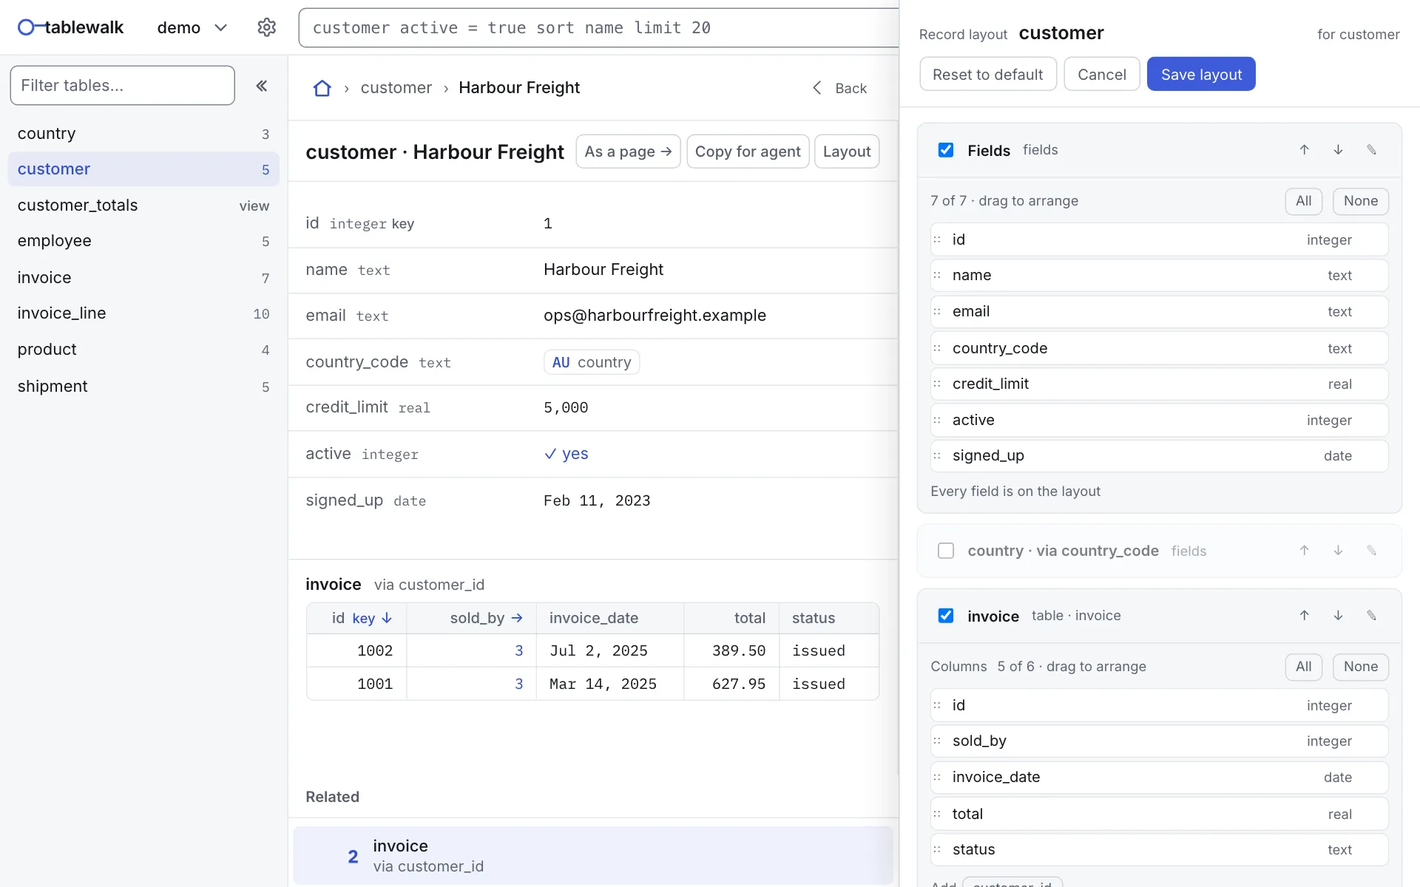
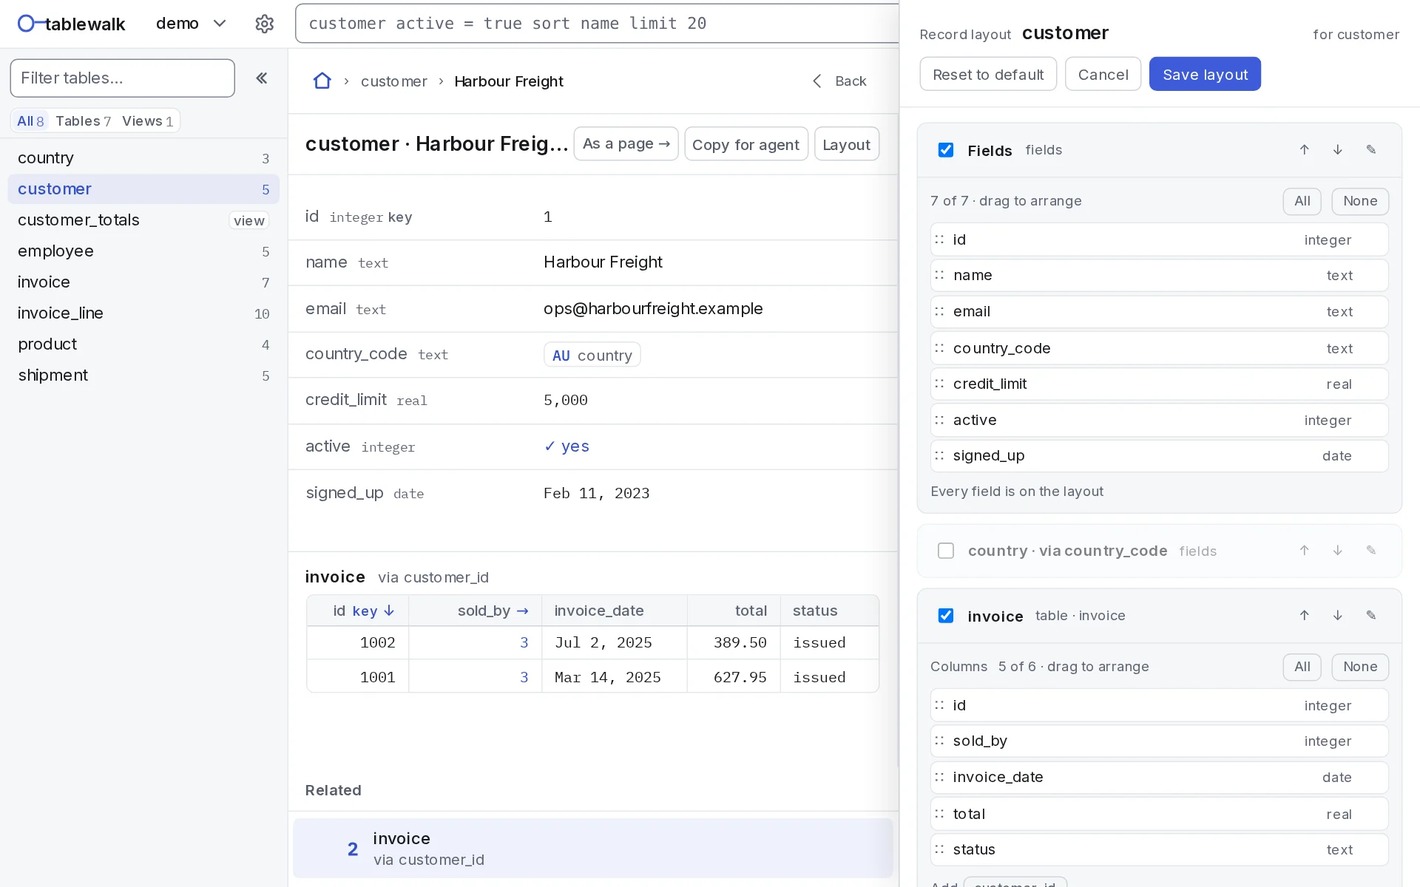
Site & docs: refresh screenshots and docs for 1.0.0-rc.21 Workbench & multi-env

diff --git a/README.md b/README.md
@@ -172,11 +172,16 @@ statement preview and undo as the record view. Pin a page with the star beside
 its name and the home screen offers it — along with the records you were last
 looking at, and every page there is.
 
-**Check the shape** (⌘K, or the `···` menu) runs the same `lint` an agent and
-a build get, for the person who can actually add the index: keyless tables,
-foreign keys with nothing behind them, references with no delete rule,
-timestamps with no zone — grouped by table, each cost said once, and every
-heading opens the table it is about.
+**Check the shape** (⌘K, the `···` menu, or **Check shape & perf** / **Join paths**
+on the home page) opens a four-tab diagnostics cockpit over the active
+connection: static **Schema & perf** (`lint` — keyless tables, unindexed
+foreign keys, missing `ON DELETE` rules, naive timestamps), live **Index & scan
+health** (`perf` — sequential-scan hotspots, unused or duplicate indexes, table
+bloat and stale planner stats), bounded **Data anomalies** (`anomalies` —
+temporal inversions, dangling soft-delete lifecycles, almost-always-populated
+nullable FKs), and **Join paths** (`path` — shortest `to-one` and `to-many`
+routes between any two tables), each with ready-to-run `CREATE INDEX` or
+`SELECT … JOIN …` statements you can copy or **Open in SQL**.
 
 **Find a value** (⌘K, or the `···` menu) answers the question you have when a
 string arrives from somewhere else and you cannot yet name the table it
@@ -280,7 +285,7 @@ real row out of development, put it into a test database, tear it down after.
 Rows entering an agent's context leave the machine — point it at development
 databases. Where you want that enforced rather than remembered, mark a
 connection `"rows": false`: the catalog, row counts, null fractions, plans,
-`lint` and `anomalies` still answer, and everything that would return a value out of a row
+`lint`, `perf` and `anomalies` still answer, and everything that would return a value out of a row
 refuses — at the adapter, so every endpoint and every tool at once. A server
 whose connections are all shape-only does not list `query`, `sql`, `record`,
 `breakdown` or `export` at all.
@@ -295,23 +300,30 @@ a query or configured view that names or traverses one is refused, and raw SQL
 (`sql`, `explain`, `verify_ddl`) is withheld and refused on that connection.
 Where PII or secrets should stay visible in shape and deterministically masked in
 values, set `"redact": true` (and optional `"redactColumns": ["notes"]`, or pass
-`--redact` / `TABLEWALK_REDACT=1`), and bound total session egress with
-`"maxRows": 5000` (or `--max-rows 5000` / `TABLEWALK_MAX_ROWS=5000`). A
-database role without `SELECT` on sensitive tables is stronger still.
+`--redact` / `TABLEWALK_REDACT=1`), bound total session egress with
+`"maxRows": 5000` (or `--max-rows 5000` / `TABLEWALK_MAX_ROWS=5000`), and scope
+large schemas to an N-hop foreign-key neighborhood with `"focus": ["invoice"]`
+(`--focus invoice --focus-hops 1`). A database role without `SELECT` on
+sensitive tables is stronger still.
 
 For a local secret vault or ephemeral agent session, pipe the config in memory
 instead of writing secrets to disk — `--config <(vault read db/staging)`,
 `{ vault read db/staging; cat; } | npx tablewalk --mcp --config -`, or
-`TABLEWALK_CONFIG_JSON` — with inline `"secrets"` / `"dotenv"` variables
-resolved only inside `Registry.environment`, `"active": "billing@staging"` and
-`"only": true` to expose one target, `--lazy` so MCP handshake answers before
-the database is dialed, `"lease": { "idleSeconds": 30, "maxSeconds": 300 }` (or
-`--lease 5m`) to evict idle sockets and close connections when the lease ends,
-`--query "invoice status = open"` / `--call schema_summary` for a single fast
-JSON lookup, or `--batch calls.jsonl` (including `{ vault read db/staging; cat calls.jsonl; } | npx tablewalk --config - --batch -`) to stream multiple queries and tool calls as NDJSON over one session before closing all connections.
+`TABLEWALK_CONFIG_JSON` — with inline `"secrets"` / `"dotenv"` variables or
+`"credentialCommand"` resolved only inside `Registry.environment`,
+`"active": "billing@staging"` and `"only": true` to expose one target, `--lazy`
+so MCP handshake answers before the database is dialed,
+`"lease": { "idleSeconds": 30, "maxSeconds": 300 }` (or `--lease 5m`) to evict
+idle sockets and close connections when the lease ends, `--audit-log stderr` for
+zero-PII JSONL tool receipts, `--query "invoice status = open" --format tsv` /
+`--call breakdown --args '{"q":"invoice count by status"}' --all-envs --format md`
+for compact one-shot lookups, or `--batch calls.jsonl` (including
+`{ vault read db/staging; cat calls.jsonl; } | npx tablewalk --config - --batch -`)
+to stream multiple queries and tool calls as NDJSON over one session before closing all connections.
 
 A call is bounded in time and in what it counts. Statements run under a
-30-second cap, and `sql` takes `timeout_ms` to lower it for one statement:
+30-second cap (or `"timeoutMs"` / `--timeout-ms` per connection or environment),
+and `sql` takes `timeout_ms` to lower it for one statement:
 Postgres sets it inside the statement's transaction, and SQLite, which cannot interrupt a statement
 in-process, runs `sql` in a separate process that the cap stops — the reads
 tablewalk compiles for SQLite are bounded by their limits instead. A client
@@ -337,9 +349,11 @@ beside the schema brief. Reading them does not run them; `query`, `sql` and
 the current record, query or schema with its deep link and exact MCP call.
 
 And you can watch all of it: the **Agent console** (⌘K → "Agent console")
-drives the same tools by hand through the same code path and streams a live
-trail of external MCP calls hitting the shared server — stats, token cost, Undo
-sync, and one-click deep links back into the UI.
+organizes all twenty-eight tools into five searchable workflow sections, offers an
+**All envs** fan-out pill for read-only calls, drives the same tools by hand
+through the same code path, and streams a live trail of external MCP calls
+hitting the shared server — stats, token cost, Undo sync, and one-click deep
+links back into the UI.
 
 ## A config file, and a team's surfaces
 
@@ -367,11 +381,13 @@ on should live in version control rather than in one person's browser.
 Connections that share a logical `database` (either declared explicitly with
 `"database"` and `"env"`, or inferred from names like `app-local`, `app_staging`,
 `app (prod)`, or `app-replica`) appear as one promotion pipeline across the top
-bar, the SQL editor, and the Connections screen — switching environments keeps
-your current table, query, or record open when that table exists on the other
-side, while top-level `"environments"` policies apply shared `writable`, `rows`,
-`lease`, `blocklist`, `redact` and `maxRows` defaults across every database in
-that tier. In MCP, every tool accepts `"connection": "app@staging"`, `"@staging"`, or
+bar, the drag-resizable SQL editor (including **Compare envs** parallel `SELECT`
+tabs), the Agent console (**All envs** fan-out), and the Connections screen —
+switching environments keeps your current table, query, or record open when that
+table exists on the other side, while top-level `"environments"` policies apply
+shared `writable`, `rows`, `lease`, `blocklist`, `redact`, `maxRows`,
+`timeoutMs` and `focus` defaults across every database in that tier. In MCP,
+every tool accepts `"connection": "app@staging"`, `"@staging"`, or
 `"env": "staging"`, and implicit writes while a `prod` environment is active are
 refused unless `"connection"` or `"env": "prod"` is named explicitly.
 

diff --git a/site/src/content/docs/docs/browsing.md b/site/src/content/docs/docs/browsing.md
@@ -5,16 +5,16 @@ description: Tables, records and the walk between them. Every foreign key is a l
 
 In tablewalk a foreign key is a place you can go: from an invoice to its customer, and from the customer back to all of its invoices.
 
-![A customer record: its fields, its invoices listed under them, and a Related rail counting every table that points at it](/shots/record.webp?v=2)
+![A customer record: its fields, its invoices listed under them, and a Related rail counting every table that points at it](/shots/record.webp?v=3)
 
 ## A table
 
-Click a table in the sidebar, or type its name in the query bar. The grid shows its rows, newest first where an indexed column allows it.
+Click a table in the sidebar, or type its name in the query bar. The grid shows its rows, newest first where an indexed column allows it, and the sidebar scope bar above the table list filters between **All**, **Tables** and **Views** (plus **Focused** when `--focus` is active).
 
-![The invoice table queried as "invoice total >= 500 sort total desc", with the query's parts as chips and quick filters above the grid](/shots/query.webp?v=2)
+![The invoice table queried as "invoice total >= 500 sort total desc", with the query's parts as chips and inline quick filters above the grid](/shots/query.webp?v=3)
 
-- **Quick filters** above the grid narrow by a column's common values. The parts of the current query show as chips, and **+ Save this filter** keeps it as a view.
-- **A column header** opens a menu: pin the column, sort, or filter by equals, greater than, less than, between, is empty or is not empty.
+- **Quick filters** sit in one compact inline strip above the grid (`Filters` in the tab bar folds or unfolds them to give more vertical room to rows). The parts of the current query show as chips, and **+ Save this filter** keeps it as a view.
+- **A column header** opens a menu: pin the column, sort (tinted in cobalt when active), or filter by equals, greater than, less than, between, is empty or is not empty.
 - **▸** at the start of a row expands it in place. Click the row to open its record.
 - **Export** downloads CSV or JSON for this page or for every matching row, or lets you choose the columns first. **Agent: Copy this position** copies the place you are in for a coding agent.
 - The pager sets how many rows a page holds.
@@ -34,6 +34,19 @@ On a record:
 ## Walking back
 
 Each step is kept on a trail, shown above the record, and **Back** returns along it. `Backspace` (or `⌘[`) steps back one place. Opened from a list, a record steps through that list with `j` and `k`, or with the arrows beside its name, in the list's order and past the end of its page. In the grid, `Space` glances at a row's record without leaving the list. All the keys are on [Keyboard](/docs/keyboard/).
+
+## Checking the shape, live health and join paths
+
+**Check the shape** (`⌘K`, the `···` menu, or **Check shape & perf** / **Join paths** on the home page) opens a four-tab diagnostics dialog over the active connection:
+
+![Checking the shape of the sample database: schema findings with inline CREATE INDEX statements and Open in SQL](/shots/shapecheck.webp?v=3)
+
+- **Schema & perf** runs the static catalog `lint`: keyless tables, unindexed foreign keys, references without an `ON DELETE` rule, and timestamps without a zone — with ready-to-run `CREATE INDEX` statements you can copy or **Open in SQL**.
+- **Index & scan health** inspects live database statistics (`pg_stat_user_tables` and `pg_stat_user_indexes` on PostgreSQL; `PRAGMA index_list`, `EXPLAIN QUERY PLAN` and `sqlite_stat1` on SQLite) to flag sequential-scan hotspots, unused or duplicate indexes, table bloat and stale planner stats.
+- **Data anomalies** runs bounded count-only checks for inverted timestamps (`shipped_at < created_at`), dangling soft-delete lifecycles, and nullable foreign keys that are almost always populated except for outlier rows.
+- **Join paths** finds the shortest `to-one` and `to-many` routes between any two tables, marks whether each hop is indexed, and generates a `SELECT … JOIN …` statement you can copy or **Open in SQL**.
+
+**Find a value** (`⌘K` or the `···` menu) sweeps text columns — and UUID columns when the input is a UUID — across every readable table, grouped by table with links straight to matching records.
 
 ## Addresses
 

diff --git a/site/src/content/docs/docs/mcp.md b/site/src/content/docs/docs/mcp.md
@@ -30,25 +30,25 @@ Or name one database instead of a config file: `"args": ["tablewalk", "--mcp", "
 claude mcp add tablewalk -- npx tablewalk --mcp --db postgres://localhost/app
 ```
 
-Every answer carries a `link` the person beside the agent can open in the page, and says what it cost in rows and milliseconds. When tablewalk is running locally in the browser, external MCP clients can also connect directly over Streamable HTTP at `http://localhost:4111/mcp` (or bridge stdio via `TABLEWALK_MCP_URL=http://localhost:4111/mcp`) so the browser and the agent share one connection pool, Undo stack and live activity trail. To see what an agent receives — or watch external MCP calls live — open **Agent console** from the `···` menu or `⌘K`, or pick **Copy brief for agent** to put the current view, key and MCP call onto the clipboard.
+Every answer carries a `link` the person beside the agent can open in the page, and says what it cost in rows and milliseconds. When tablewalk is running locally in the browser, external MCP clients can also connect directly over Streamable HTTP at `http://localhost:4111/mcp` (or bridge stdio via `TABLEWALK_MCP_URL=http://localhost:4111/mcp`) so the browser and the agent share one connection pool, Undo stack and live activity trail. To see what an agent receives — or watch external MCP calls live — open **Agent console** from the `···` menu or `⌘K` (where all tools are searchable and grouped into five workflow sections, with an **All envs** target pill to fan out read-only calls across sibling environments), or pick **Copy brief for agent** to put the current view, key and MCP call onto the clipboard.
 
 ### Vault configs, leases and fast agent lookups
 
 When credentials live in a secret vault, pipe a JSON config straight into `tablewalk` so secrets stay in memory and connections close automatically when the agent finishes:
 
 ```sh
-# MCP session over a vault config with lazy startup, a 5-minute lease, and a table/field blocklist
-{ vault get db/billing-staging; cat; } | npx tablewalk --mcp --config - --env staging --lease 5m
+# MCP session over a vault config with lazy startup, a 5-minute lease, and zero-PII JSONL audit receipts
+{ vault get db/billing-staging; cat; } | npx tablewalk --mcp --config - --env staging --lease 5m --audit-log stderr
 
-# Process substitution, one-shot JSON lookup, or multi-call NDJSON batch (closes all connections on exit)
-npx tablewalk --config <(vault get db/billing) --env staging --query "invoice status = open limit 10"
-npx tablewalk --config <(vault get db/billing) --call schema_summary
+# Process substitution, compact TSV/Markdown one-shot lookups, cross-env fan-out, or multi-call NDJSON batch
+npx tablewalk --config <(vault get db/billing) --env staging --query "invoice status = open limit 10" --format tsv
+npx tablewalk --config <(vault get db/billing) --call breakdown --args '{"q":"invoice count by status"}' --all-envs --format md
 { vault get db/billing; cat calls.jsonl; } | npx tablewalk --config - --batch - --redact --max-rows 5000
 ```
 
 Piped JSON configs can include `"secrets"` (or `.env` text under `"dotenv"`), `"credentialCommand"` to mint short-lived tokens on open and after idle eviction, `"environments"` tier defaults (`"local"`, `"staging"`, `"prod"`), `"active": "billing@staging"`, `"only": true` to expose only the selected target, `"lazy": true` (default for piped `--mcp` configs so `initialize` and `tools/list` answer before dialing the database), `"lease": { "idleSeconds": 30, "maxSeconds": 300 }`, `"timeoutMs"`, `"focus"` / `"focusHops"`, `"redact": true` / `"redactColumns"`, `"maxRows"`, and `"blocklist": { "tables": ["audit_*"], "fields": { "*": ["*_token"], "customer": ["tax_id"] } }`.
 
-![The Agent console running the record tool on customer 1, with the answer and its cost](/shots/agent.webp?v=2)
+![The Agent console running the record tool on customer 1, with searchable categorized tools, the answer and its cost](/shots/agent.webp?v=3)
 
 ## The tools
 

diff --git a/site/src/content/docs/docs/getting-started.md b/site/src/content/docs/docs/getting-started.md
@@ -33,18 +33,19 @@ Add `--open` to have it open your browser, and `--port <n>` to listen somewhere 
 
 Run `npx tablewalk` alone and the page offers the sample database or a form to connect one. A connection added here is read-only. Only a [config file](/docs/connections/) can make one writable.
 
-![The welcome page: "Follow the data", with buttons to open the sample database or connect one](/shots/connect.webp?v=2)
+![The welcome page: "Follow the data", with buttons to open the sample database or connect one](/shots/connect.webp?v=3)
 
 ## The first page
 
-Once a database is open, the home page reads the schema for you: the tables it centers on, the ones that record events, the longest chain of references, and a table to start at. Under that is a diagram of every table and foreign key. The sidebar lists every table with its row count, and the query bar at the top takes [a question in one line](/docs/query/).
+Once a database is open, the home page reads the schema for you: the tables it centers on, the ones that record events, the longest chain of references, and starter tables to walk from, alongside one-click launchers for **Check shape & perf** and **Join paths**. Under that is an interactive entity diagram of every table and foreign key — hover any table card to illuminate its foreign-key neighborhood. The sidebar filters by **All**, **Tables** or **Views** with approximate row counts, and the query bar at the top takes [a question in one line](/docs/query/).
 
-![The home page of the sample database: what the schema centers on, the sidebar of tables, and the query bar](/shots/home.webp?v=2)
+![The home page of the sample database: what the schema centers on, the sidebar of tables, and the query bar](/shots/home.webp?v=3)
 
 From here:
 
 - Click a table to see its rows, then a row to see [the record and everything related to it](/docs/browsing/).
-- Press `⌘K` to jump to any table, page or recent query.
+- Click **Check shape & perf** or **Join paths** (or press `⌘K`) to inspect missing foreign-key indexes, live scan and index health, data anomalies, and shortest multi-hop joins.
+- Press `⌘K` to jump to any table, page, sibling environment or recent query.
 - Press `?` for the query language, with examples that run against your own tables.
 - Choose **Preferences** in the `···` menu for the look: Graphite and cobalt by default, with Fog and moss and other palettes, light or dark.
 - Choose **Take the tour** in the `···` menu for a short walk through the screen.

diff --git a/site/src/content/docs/docs/writing.md b/site/src/content/docs/docs/writing.md
@@ -18,7 +18,7 @@ tablewalk never writes to a database unless that connection's config says `"writ
 
 In write mode a record's fields become editors. Changes stay pending ("1 unsaved change") until you **Discard** them or choose **Review & apply**. The review names the record, the old and new values, and the exact SQL with its parameters:
 
-![The "Apply this change?" dialog: an UPDATE on customer 2 that sets a new email, guarded by the old one](/shots/write.webp?v=2)
+![The "Apply this change?" dialog: an UPDATE on customer 2 that sets a new email, guarded by the old one](/shots/write.webp?v=3)
 
 The `WHERE` names the whole primary key and the value you started from, so a row someone else changed in the meantime is not overwritten. An update that would touch anything other than exactly one row is refused. A write waits up to five seconds (`--lock-timeout`) for a row another transaction holds, and is then refused so you can retry.
 
@@ -33,7 +33,7 @@ The `WHERE` names the whole primary key and the value you started from, so a row
 
 ## SQL that writes
 
-On a writable connection the SQL editor offers **Run as write…**, which runs the statement on the write connection after one more confirmation. It cannot be undone from tablewalk.
+On a writable connection the SQL editor offers **Run as write…**, which runs the statement on the write connection after one more confirmation (with an explicit production banner when targeting a `prod` environment). It cannot be undone from tablewalk.
 
 ## How reads stay read-only
 
@@ -44,4 +44,4 @@ On a writable connection the SQL editor offers **Run as write…**, which runs t
 
 ## Agents
 
-A coding agent connected over [MCP](/docs/mcp/) gets the write tools only when a connection is writable, and they write only to that connection. Deleting through MCP shows the impact first and asks for confirmation.
+A coding agent connected over [MCP](/docs/mcp/) gets the write tools only when a connection is writable, and they write only to that connection (`dryRun: true` on `insert`, `update` and `insert_graph` checks constraints inside a rolled-back transaction first). When a `prod` environment is active, write tools refuse implicit calls unless `connection` or `env: "prod"` is named explicitly. Deleting through MCP shows the impact first and asks for confirmation.

diff --git a/site/src/content/docs/docs/query.md b/site/src/content/docs/docs/query.md
@@ -9,9 +9,9 @@ The query bar takes a table name and then, in plain words, what you want from it
 invoice total > 500 and customer_id.country_code.name = Australia sort total desc
 ```
 
-Every query compiles to one SQL statement, which runs read-only and with a row limit. **SQL** in the top bar shows the statement it compiled to. Press `?` in the app for this grammar with examples built from your own tables, and `Tab` or `Ctrl+Space` in the bar to complete a table, column or keyword.
+Every query compiles to one SQL statement, which runs read-only and with a row limit. **SQL** in the top bar shows the statement it compiled to. Press `?` in the app for this grammar with examples built from your own tables, and `Tab` or `Ctrl+Space` in the bar to complete a table, column, foreign-key dot-path (`customer_id.` completes columns on `customer`), `CHECK` or enum value after `=` / `in (`, or date window.
 
-![The query bar with a filter on invoices, and the SQL panel showing the statement it compiled to](/shots/sql.webp?v=2)
+![The query bar with a filter on invoices, and the SQL panel showing the statement it compiled to](/shots/sql.webp?v=3)
 
 ## Filters
 
@@ -105,4 +105,4 @@ invoice sum total by customer_id.country_code.name as country
 
 ## When it cannot say it
 
-The language covers filtering, walking and counting. For window functions, CTEs or self-joins, open the SQL editor (`⌘⇧↵`). **Edit** in the SQL panel starts it from the statement your query compiled to. A statement runs read-only, the same as a query. See [Writing](/docs/writing/) for the one exception.
+The language covers filtering, walking and counting. For window functions, CTEs or self-joins, open the drag-resizable SQL editor (`⌘⇧↵`). **Edit** in the SQL panel starts it from the statement your query compiled to. When sibling environments (`local`, `staging`, `prod`) are configured for the active database, **Compare envs** runs a read-only `SELECT` across all sibling environments in parallel and renders per-environment result tabs with row counts and latency. A statement runs read-only, the same as a query. See [Writing](/docs/writing/) for the one exception.

diff --git a/site/src/content/docs/docs/pages.md b/site/src/content/docs/docs/pages.md
@@ -24,13 +24,13 @@ A view in a config file is one line of the query language:
 
 A layout is how the record view arranges every row of one table. On a record, click **Layout**: tick the sections to show and move them up or down, choose the fields or columns inside each (**All**, **None**, or drag to arrange), set how many rows a related list holds, then **Save layout**. **Reset to default** returns to the layout tablewalk drew.
 
-![The Record layout panel beside a customer record: sections with checkboxes and arrows, and the fields inside each to drag into order](/shots/layout.webp?v=2)
+![The Record layout panel beside a customer record: sections with checkboxes and arrows, and the fields inside each to drag into order](/shots/layout.webp?v=3)
 
 ## Pages
 
 A page gathers one record with what surrounds it: its fields, figures and related lists as tabs. Open one with **As a page →** on a record, or **Page →** on a table. Its address is `/{connection}/@{page}~{id}`, such as `/demo/@customer~1`.
 
-![The customer page for Harbour Freight: its fields, then its invoices](/shots/page.webp?v=2)
+![The customer page for Harbour Freight: its fields, then its invoices](/shots/page.webp?v=3)
 
 tablewalk suggests a page for any table. **Copy layout** starts your own copy of it, and on a saved page **Layout** changes it. The star pins a page to the home screen.
 

diff --git a/site/src/content/docs/docs/connections.md b/site/src/content/docs/docs/connections.md
@@ -17,7 +17,7 @@ A `tablewalk.json` names the databases tablewalk can open, and how far each one 
 
 tablewalk looks for `./tablewalk.json`, then `./.tablewalk.json`, then `$XDG_CONFIG_HOME/tablewalk/connections.json`. `--config <path>` names a file, and `--no-config` ignores them all. A relative path in the file is read from the file's folder.
 
-Connections appear in the picker at the top of the page, and each opens when it is first used, so naming eight databases does not dial eight databases. The browser is sent a name, a dialect and a redacted address, never a password.
+Connections appear in the picker at the top of the page, and each opens when it is first used, so naming eight databases does not dial eight databases. Connections that share a logical `database` (declared with `"database"` and `"env"`, or inferred from names like `app-local`, `app_staging`, `app (prod)`) form a segmented environment switcher in the top bar that preserves your current table, query or record as you switch tiers, plus **Compare envs** in the SQL editor and **All envs** fan-out in the Agent console. The browser is sent a name, a dialect and a redacted address, never a password.
 
 ## A connection's fields
 
